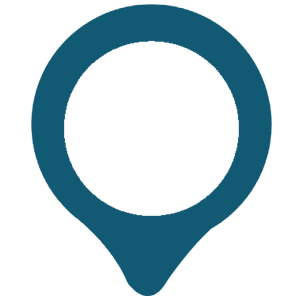
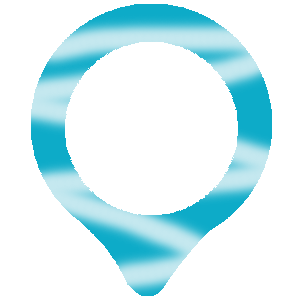
15-08-2018

Changed region(s): [[0.09, 0.0, 0.93, 0.99]]

diff --git a/App.js b/App.js
@@ -47,27 +47,27 @@ export default class App extends Component {
     return (
       <View style={styles.container}>
         <View style={{ alignSelf: 'center', height: 165, width: 360 }}>
-          <Image source={require('./2222.png')}
+          <Image source={require('./234.png')}
             style={{ alignSelf: 'center', width, height: 155, resizeMode: 'contain', margin: 5 }} />
         </View>
 
         <View style={{ alignSelf: 'center', height: 370, width: 360, }}>
           <View style={{ position: 'absolute', alignSelf: 'center', width: 330 }}>
             <TouchableOpacity onPress={() => this.props.navigation.navigate('Place')}>
-              <View style={{ position: 'absolute', backgroundColor: '#185373', height: 50, width: 230, alignSelf: 'center', margin: 17.5, borderRadius: 7, }}>
-                <View style={{ position: 'absolute', backgroundColor: '#dedfd7', height: 46, width: 226, alignSelf: 'center', margin: 2, borderRadius: 4.5, }}>
+              <View style={{ position: 'absolute', backgroundColor: '#FFFFFF', height: 50, width: 230, alignSelf: 'center', margin: 17.5, borderRadius: 7, }}>
+                <View style={{ position: 'absolute', backgroundColor: '#a4d4f2', height: 46, width: 226, alignSelf: 'center', margin: 2, borderRadius: 4.5, }}>
                   <Text style={{ color: '#185373', fontSize: 25, alignSelf: 'center', margin: 7 }}>
-                    {global.lang == 'th' ? <Text>ที่ท่องเที่ยว</Text> : <Text>Place</Text>}</Text>
+                    {global.lang == 'th' ? <Text>แหล่งท่องเที่ยว</Text> : <Text>Place</Text>}</Text>
                 </View>
               </View>
               <View style={{ position: 'absolute', width: 84.5, height: 70, alignSelf: 'flex-end', margin: 7.5 }}>
-                <View style={{ position: 'absolute', backgroundColor: '#dedfd7', width: 70, height: 70, borderRadius: 100 }}>
+                <View style={{ position: 'absolute', backgroundColor: '#B40097', width: 70, height: 70, borderRadius: 100 }}>
                 </View>
               </View>
-              <Image source={require('./AppPage/กรอบ.png')}
+              <Image source={require('./AppPage/กรอบ1.png')}
                 style={{ width: 100, height: 100, alignSelf: 'flex-end' }} />
               <View style={{ position: 'absolute', width: 80, height: 70, alignSelf: 'flex-end', margin: 12.5 }}>
-                <Image source={require('./AppPage/ท่องเที่ยว.png')}
+                <Image source={require('./AppPage/ท่องเที่ยว1.png')}
                   style={{ width: 60, height: 60 }} />
               </View>
             </TouchableOpacity>
@@ -75,21 +75,21 @@ export default class App extends Component {
 
           <View style={{ position: 'absolute', alignSelf: 'center', width: 330, margin: 85 }}>
             <TouchableOpacity onPress={() => this.props.navigation.navigate('Hotel')}>
-              <View style={{ position: 'absolute', backgroundColor: '#185373', height: 50, width: 230, alignSelf: 'center', margin: 17.5, borderRadius: 7, }}>
-                <View style={{ position: 'absolute', backgroundColor: '#dedfd7', height: 46, width: 226, alignSelf: 'center', margin: 2, borderRadius: 4.5, }}>
+              <View style={{ position: 'absolute', backgroundColor: '#FFFFFF', height: 50, width: 230, alignSelf: 'center', margin: 17.5, borderRadius: 7, }}>
+                <View style={{ position: 'absolute', backgroundColor: '#a4d4f2', height: 46, width: 226, alignSelf: 'center', margin: 2, borderRadius: 4.5, }}>
                   <Text style={{ color: '#185373', fontSize: 25, alignSelf: 'center', margin: 7 }}>
                     {global.lang == 'th' ? <Text>โรงแรม</Text> : <Text>Hotel</Text>}</Text>
                 </View>
               </View>
               <View style={{ position: 'absolute', width: 86, height: 70, margin: 7.5 }}>
-                <View style={{ position: 'absolute', backgroundColor: '#dedfd7', alignSelf: 'center', width: 70, height: 70, borderRadius: 100 }}>
+                <View style={{ position: 'absolute', backgroundColor: '#FF7C00', alignSelf: 'center', width: 80, height: 70, borderRadius: 100 }}>
                 </View>
               </View>
-              <Image source={require('./AppPage/กรอบ.png')}
+              <Image source={require('./AppPage/กรอบ1.png')}
                 style={{ width: 100, height: 100, }} />
 
               <View style={{ position: 'absolute', width: 78, height: 70, margin: 12.5 }}>
-                <Image source={require('./AppPage/โรงแรม.png')}
+                <Image source={require('./AppPage/โรงแรม1.png')}
                   style={{ width: 45, height: 45, alignSelf: 'center', margin: 7 }} />
               </View>
             </TouchableOpacity>
@@ -97,21 +97,21 @@ export default class App extends Component {
 
           <View style={{ position: 'absolute', alignSelf: 'center', width: 330, margin: 170 }}>
             <TouchableOpacity onPress={() => this.props.navigation.navigate('Hospital')}>
-              <View style={{ position: 'absolute', backgroundColor: '#185373', height: 50, width: 230, alignSelf: 'center', margin: 17.5, borderRadius: 7, }}>
-                <View style={{ position: 'absolute', backgroundColor: '#dedfd7', height: 46, width: 226, alignSelf: 'center', margin: 2, borderRadius: 4.5, }}>
+              <View style={{ position: 'absolute', backgroundColor: '#FFFFFF', height: 50, width: 230, alignSelf: 'center', margin: 17.5, borderRadius: 7, }}>
+                <View style={{ position: 'absolute', backgroundColor: '#a4d4f2', height: 46, width: 226, alignSelf: 'center', margin: 2, borderRadius: 4.5, }}>
                   <Text style={{ color: '#185373', fontSize: 25, alignSelf: 'center', margin: 7 }}>
                     {global.lang == 'th' ? <Text>โรงพยาบาล</Text> : <Text>Hospital</Text>}</Text>
                 </View>
               </View>
               <View style={{ position: 'absolute', width: 84.5, height: 70, alignSelf: 'flex-end', margin: 7.5 }}>
-                <View style={{ position: 'absolute', backgroundColor: '#dedfd7', width: 70, height: 70, borderRadius: 100 }}>
+                <View style={{ position: 'absolute', backgroundColor: '#D0006E', width: 70, height: 70, borderRadius: 100 }}>
                 </View>
               </View>
-              <Image source={require('./AppPage/กรอบ.png')}
+              <Image source={require('./AppPage/กรอบ1.png')}
                 style={{ width: 100, height: 100, alignSelf: 'flex-end' }} />
 
               <View style={{ position: 'absolute', width: 74.5, height: 70, alignSelf: 'flex-end', margin: 18 }}>
-                <Image source={require('./AppPage/โรงพยาบาล.png')}
+                <Image source={require('./AppPage/โรงพยาบาล1.png')}
                   style={{ width: 50, height: 50 }} />
               </View>
             </TouchableOpacity>
@@ -119,21 +119,21 @@ export default class App extends Component {
 
           <View style={{ position: 'absolute', alignSelf: 'center', width: 330, margin: 255 }}>
             <TouchableOpacity onPress={() => this.props.navigation.navigate('Airport')}>
-              <View style={{ position: 'absolute', backgroundColor: '#185373', height: 50, width: 230, alignSelf: 'center', margin: 17.5, borderRadius: 7, }}>
-                <View style={{ position: 'absolute', backgroundColor: '#dedfd7', height: 46, width: 226, alignSelf: 'center', margin: 2, borderRadius: 4.5, }}>
+              <View style={{ position: 'absolute', backgroundColor: '#FFFFFF', height: 50, width: 230, alignSelf: 'center', margin: 17.5, borderRadius: 7, }}>
+                <View style={{ position: 'absolute', backgroundColor: '#a4d4f2', height: 46, width: 226, alignSelf: 'center', margin: 2, borderRadius: 4.5, }}>
                   <Text style={{ color: '#185373', fontSize: 25, alignSelf: 'center', margin: 7 }}>
                     {global.lang == 'th' ? <Text>สนามบิน</Text> : <Text>Airport</Text>}</Text>
                 </View>
               </View>
               <View style={{ position: 'absolute', width: 86, height: 70, margin: 7.5 }}>
-                <View style={{ position: 'absolute', backgroundColor: '#dedfd7', alignSelf: 'center', width: 70, height: 70, borderRadius: 100 }}>
+                <View style={{ position: 'absolute', backgroundColor: '#FFD500', alignSelf: 'center', width: 70, height: 70, borderRadius: 100 }}>
                 </View>
               </View>
-              <Image source={require('./AppPage/กรอบ.png')}
+              <Image source={require('./AppPage/กรอบ1.png')}
                 style={{ width: 100, height: 100 }} />
 
               <View style={{ position: 'absolute', width: 78, height: 70, margin: 12.5 }}>
-                <Image source={require('./AppPage/เครื่องบิน.png')}
+                <Image source={require('./AppPage/เครื่องบิน1.png')}
                   style={{ width: 50, height: 50, alignSelf: 'center', margin: 8 }} />
               </View>
             </TouchableOpacity>
@@ -181,7 +181,7 @@ const styles = StyleSheet.create({
 
   container: {
     flex: 1,
-    backgroundColor: '#a4d4f2',
+    backgroundColor: '#79CDCD',
   },
   header: {
     flex: 1,

diff --git a/Place0.js b/Place0.js
@@ -104,7 +104,7 @@ class Home extends React.Component {
                                                 </View>
 
                                                 <View style={{ height: 100, width: 220, alignSelf: 'center' }}>
-                                                    <Text style={{ flexDirection: "row", justifyContent: 'space-between', fontSize: 13, color: '#185373', margin: 2 }}>
+                                                    <Text style={{ flexDirection: "row", justifyContent: 'space-between', fontSize: 13, color: 'back', margin: 2 }}>
                                                         {item.name}</Text>
                                                     <Text style={{ flexDirection: "row", justifyContent: 'space-between', fontSize: 10, alignSelf: 'center' }}>
                                                         {item.name2}</Text>

diff --git a/Place.js b/Place.js
@@ -52,7 +52,7 @@ export default class App extends Component {
             
                 <View style={{ height: 70, width: 375, backgroundColor: '#F8F8FF' }}>
                     <Text style={{ alignSelf: 'center', margin: 20, color: 'black', fontSize: 25 }}>
-                        {global.lang == 'th' ? <Text>ที่ท่องเที่ยว</Text> : <Text>Place</Text>}</Text>
+                        {global.lang == 'th' ? <Text>แหล่งท่องเที่ยว</Text> : <Text>Place</Text>}</Text>
 
                     <TouchableOpacity style={{ position: 'absolute', margin: 17 }} onPress={() => this.props.navigation.goBack()}>
                         <Icon name="angle-left" color="black" size={40} />

diff --git a/Hotel_th/CHAT/index.html b/Hotel_th/CHAT/index.html
@@ -1,0 +1,12 @@
+<!DOCTYPE html>
+<html lang="en">
+    <head>
+        <meta charset="UIF-8">
+        <meta name="viewport" content="width=device-width, inital-scale=1.0">
+        <meta http-equiv-"X-UA-Comatible" content-"ie-edge">
+        <title>Chat Realtime</title>
+        </head>
+        <body>
+            Chat Realtime
+        </body>
+</html>

diff --git a/navigation.js b/navigation.js
@@ -149,7 +149,7 @@ export default createStackNavigator({
         }
     },
 }, {
-        initialRouteName: 'Login',
+        initialRouteName: 'App',
     }
 );
 
